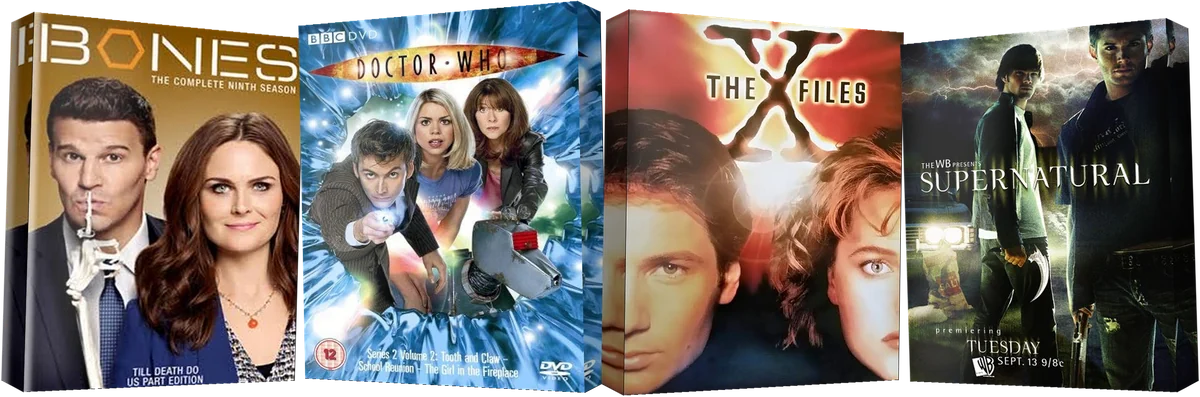
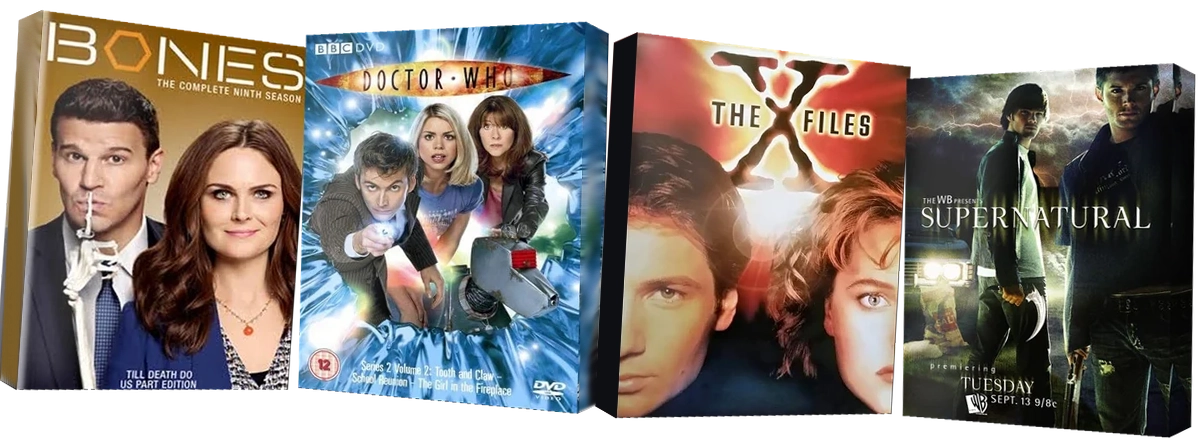
New disc and bike cuts, box sets 5px up

diff --git a/app/page.tsx b/app/page.tsx
@@ -797,7 +797,7 @@ export default function Home() {
           meta="Box sets"
           place="bottom"
           className="group"
-          style={{ position: "absolute", left: "10.42%", top: "21.67%", width: "13.6%", zIndex: 2 }}
+          style={{ position: "absolute", left: "10.42%", top: "20.83%", width: "13.6%", zIndex: 2 }}
         >
           {/* eslint-disable-next-line @next/next/no-img-element */}
           <img
